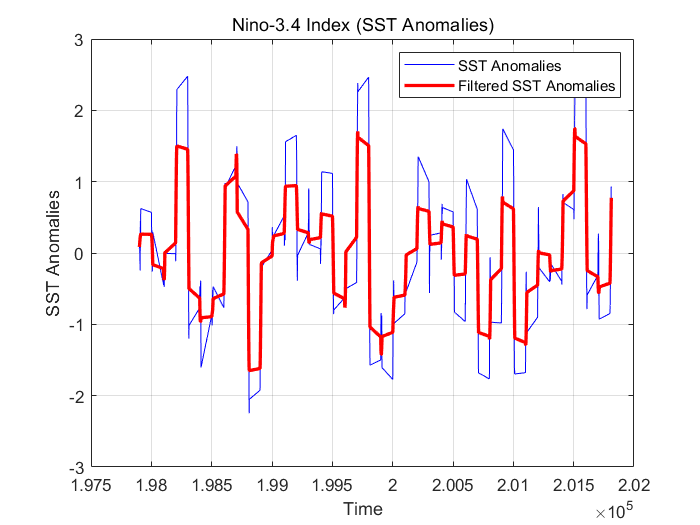
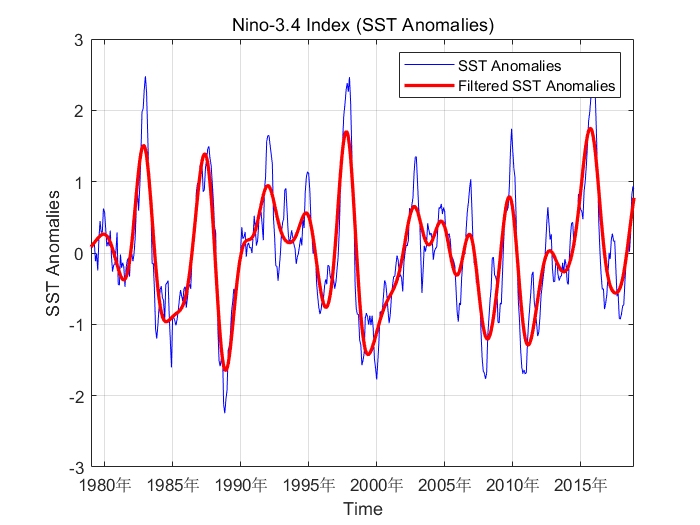
Updata

diff --git a/index.html b/index.html
@@ -14,7 +14,7 @@
       <div>
         <ul class="nav-links">
           <li><a href="#about">About</a></li>
-          <li><a href="#experience">Experience</a></li>
+          <li><a href="#favorites">Favorites</a></li>
           <li><a href="#projects">Projects</a></li>
           <li><a href="#contact">Contact</a></li>
         </ul>
@@ -30,7 +30,7 @@
         </div>
         <div class="menu-links">
           <li><a href="#about" onclick="toggleMenu()">About</a></li>
-          <li><a href="#experience" onclick="toggleMenu()">Experience</a></li>
+          <li><a href="#favorites" onclick="toggleMenu()">Favorites</a></li>
           <li><a href="#projects" onclick="toggleMenu()">Projects</a></li>
           <li><a href="#contact" onclick="toggleMenu()">Contact</a></li>
         </div>
@@ -46,12 +46,12 @@
         <h1 class="title">XXXC-HangTime</h1>
         <!-- <p class="section__text__p2">Frontend Developer</p> -->
         <div class="btn-container">
-           <button
+           <!-- <button
             class="btn btn-color-2"
             onclick="window.open('')"
           >
             Download CV
-          </button>
+          </button> -->
           <button class="btn btn-color-1" onclick="location.href='./#contact'">
             Contact Info
           </button> 
@@ -74,8 +74,8 @@
     
     </section>
     <section id="projects">
-      <p class="section__text__p1">Browse My Blogs</p>
-      <h1 class="title">Projects</h1>
+      <p class="section__text__p1">Browse My Projects</p>
+      <h1 class="title">Blogs</h1>
       <div class="experience-details-container">
         <div class="about-containers">
 
@@ -139,7 +139,7 @@
         <div class="nav-links-container">
           <ul class="nav-links">
             <li><a href="#about">About</a></li>
-            <li><a href="#experience">Experience</a></li>
+            <li><a href="#favorites">Favorites</a></li>
             <li><a href="#projects">Projects</a></li>
             <li><a href="#contact">Contact</a></li>
           </ul>

diff --git a/Blogs/SST_Lading.html b/Blogs/SST_Lading.html
@@ -58,6 +58,9 @@
             lat = data.lat;
             lon = data.lon;
             time = data.time;
+
+            % 转换时间格式
+            time = datetime(num2str(data.time'), 'InputFormat', 'yyyyMM');
         
             % 找到Nino-3.4区域的索引 (Find indices for Nino-3.4 region)
             lat_indices = find(lat >= -5 & lat <= 5);
